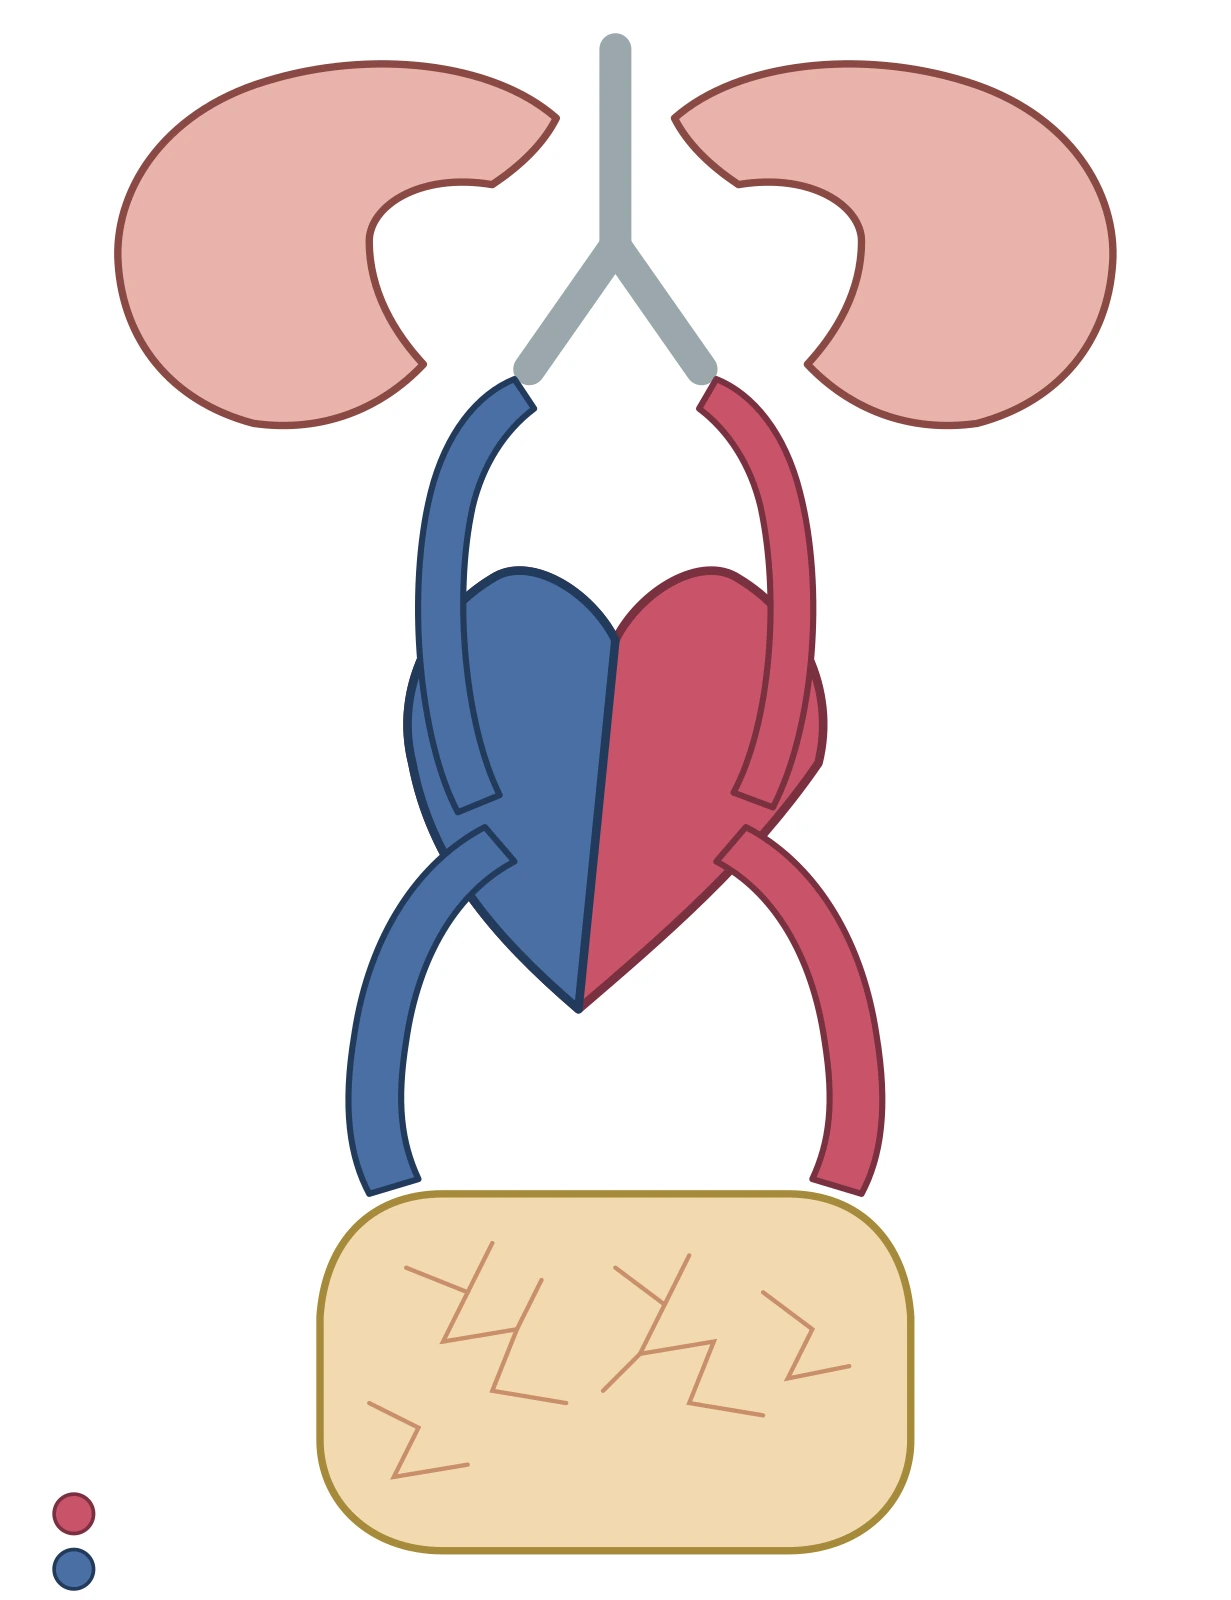
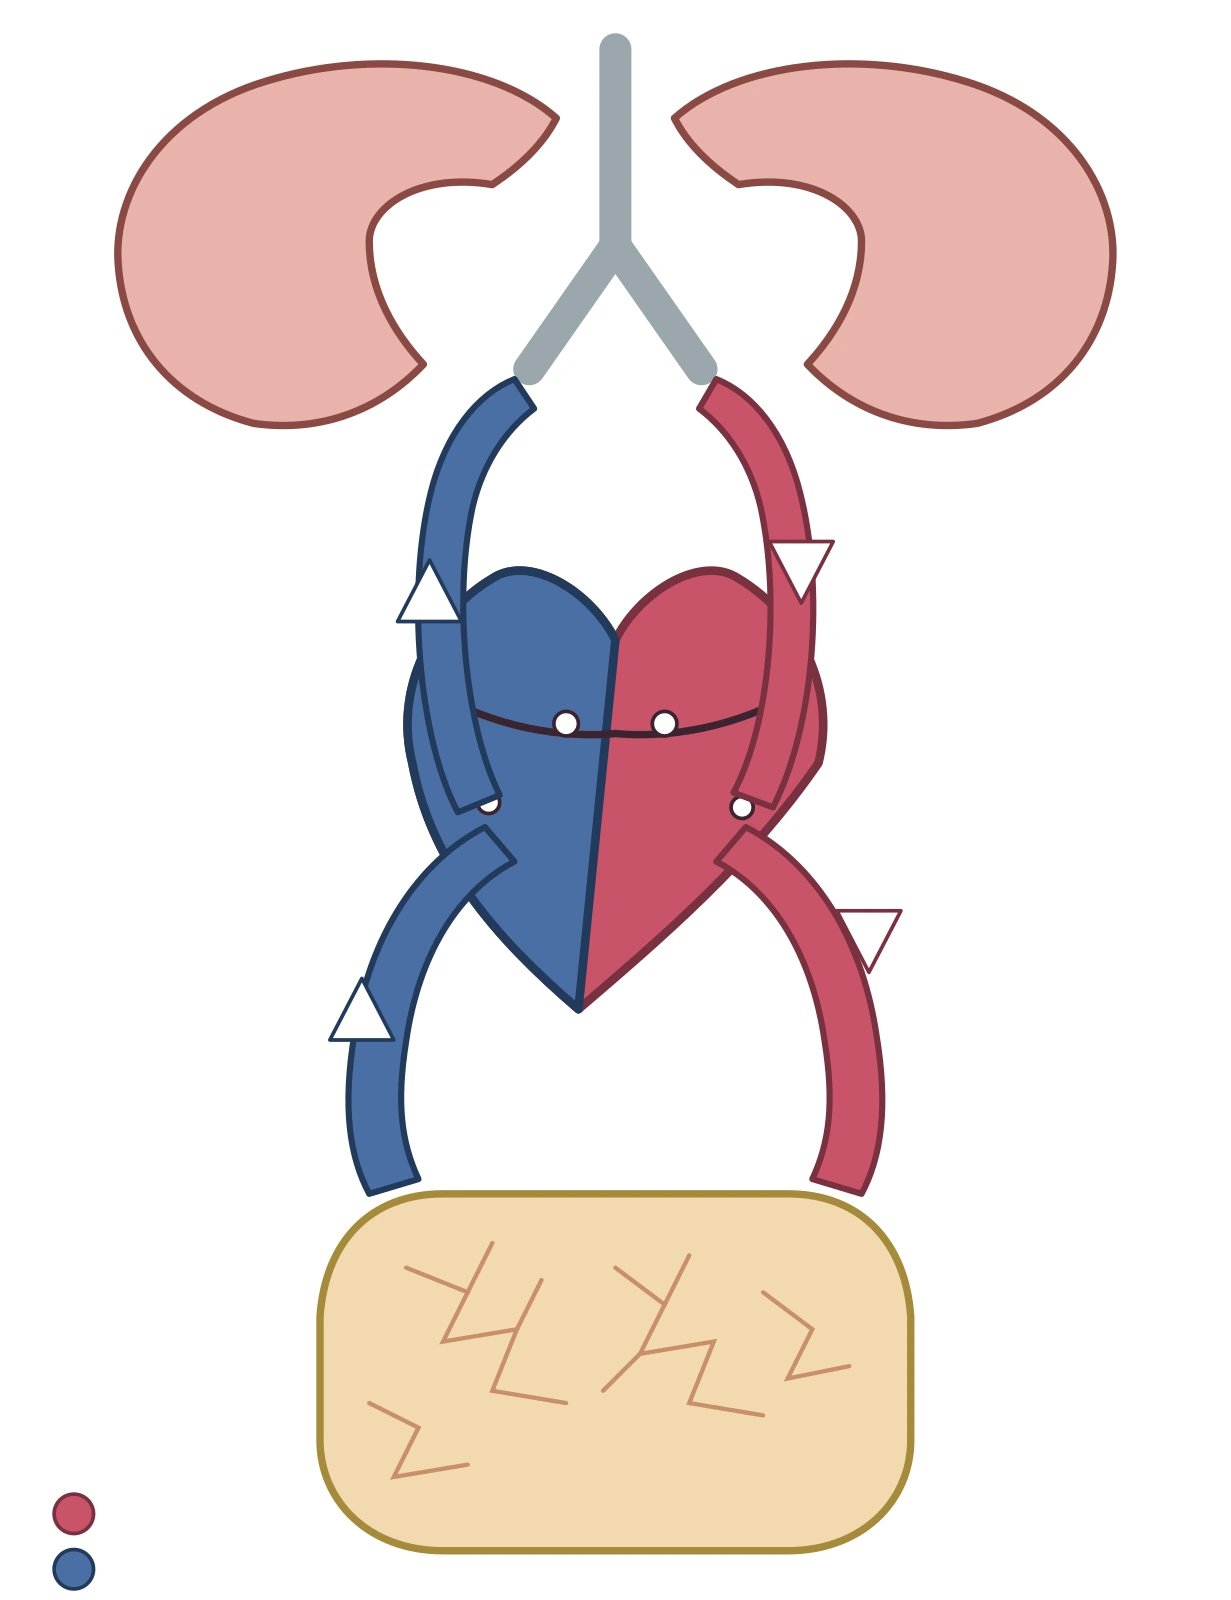
feat: improve educational quality of two weak image assets (vessel comparison, circulation circuit)
Image-quality improvement pass (not an image_mcq-count expansion): re-reviewed
all 28 existing assets against a single bar -- "can a first-year nursing
student grasp the basic structure and relationships from the picture alone?"
-- and produced an Accept/Replace now/Later classification for all of them
(docs/v2.0.1_image_quality_classification.md): 19 Accept, 7 Later (deferred,
not broken), 2 Replace now. Both Replace-now assets are implemented here.

Note: the user's request cited "Q143" for the circulation asset, but Q143 is
an unrelated text_mcq (Purkinje fibers); the actual QIDs using
circulation_circuit.webp are Q147/Q148. Proceeded on the explicit asset name
given and flagging the discrepancy here rather than blocking on it.

q021_vessel_cross_sections.webp (Q020/Q021/Q067 -- vein/capillary/artery):
replaced the old three-concentric-circle abstraction (same color filled in
three ring sizes, no actual wall structure visible) with a real three-panel
comparison: Servier Medical Art's "Layers of artery" and "Layers of vein"
cutaway illustrations (CC BY 4.0, via AnatomyTOOL.org's no-labels
redistribution) placed side by side, plus a new capillary panel built from
scratch (gradient-shaded thin single-layer wall with elongated endothelial-
cell nuclei, narrow lumen) since no matching-style open capillary cutaway
exists -- this is an honest simplification (a capillary wall really is just
endothelium + basal lamina, unlike the old image's misleading abstraction of
[…]

diff --git a/docs/v2.0.1_image_quality_classification.md b/docs/v2.0.1_image_quality_classification.md
@@ -1,0 +1,47 @@
+# v2.0.1 画像問題 教育的品質改善フェーズ：全28 asset の再分類
+
+「画像問題数を増やすことではなく、既存画像assetの教育的品質を改善する」という今回のフェーズの目的に沿って、既存の全28 unique assetを再レビューし、**Accept（現状で教育的に妥当）／Replace now（今回差し替え）／Later（改善余地はあるが致命的ではなく、次フェーズ以降の課題）**の3分類を行った結果。
+
+判断基準：**「図を見ただけで、その構造の基本的な形・位置関係・（複数構造の比較であれば）違いが、看護1年生の目線で理解できるか」**。単なる見た目の綺麗さではなく、この基準を満たさない、または致命的に誤解を招く抽象化になっている場合のみ Replace now とした。
+
+---
+
+## Replace now（今回差し替え・2 asset）
+
+| asset | 差し替え理由 | 詳細 |
+|---|---|---|
+| `q021_vessel_cross_sections.webp` | 動脈・静脈・毛細血管を3つの同心円（塗り分けただけの図形）で表現しており、「壁の厚さ」「弾性線維・平滑筋の有無」という設問の核心が図から一切読み取れなかった。看護1年生が見ても「色の違う丸が3つ」としか認識できない状態。 | [docs/v2.0.1_asset_source_log.md](v2.0.1_asset_source_log.md)の「画像の教育的品質改善フェーズ」節を参照 |
+| `circulation_circuit.webp` | 心臓が単に色分けされた一塊で心房・心室の区別がなく、4本の血管に血流方向の矢印が一切なかった。Q147/Q148はいずれも「経路をたどる」問題であるにもかかわらず、図から経路の向きを追う手がかりが無かった。 | 同上 |
+
+---
+
+## Accept（19 asset）
+
+前フェーズまでに実写・準実写ベースのオープンライセンス素材（主にServier Medical Art／Patrick J. Lynch, C. Carl Jaffe MD、いずれもAnatomyTOOL.org経由のCC BY 4.0 / CC BY-SA 4.0）へ差し替え済み、または元々十分な情報量を持つ実画像ベースのasset。いずれも「見ただけで基本構造が分かる」基準を満たしていると判断した。
+
+`q002_hierarchy.webp` ／ `q004_epithelium.webp` ／ `q011_germ_layers.webp` ／ `q017_heart_chambers.webp` ／ `q068_ecg_waveform.webp` ／ `heart_exterior_anterior.webp` ／ `heart_exterior_posterior.webp` ／ `q025_conduction_system.webp` ／ `q032_larynx.webp` ／ `q032_vocal_folds.webp` ／ `q037_alveolar_gas_exchange.webp` ／ `q041_alveolar_sac.webp` ／ `q045_renal_hilum.webp` ／ `q048_nephron.webp` ／ `q050_urinary_system.webp` ／ `heart_valve_plane.webp` ／ `q073_coronary_arteries.webp` ／ `q091_kidney_cross_section.webp` ／ `heart_valves_schematic.webp`
+
+---
+
+## Later（7 asset）
+
+いずれも「意味不明」「誤解を招く」水準ではなく、構造の位置関係は理解できるレベルにあるが、実写素材への置き換えでさらに質を上げる余地がある、または今回のオープンライセンス探索では直接一致する適切な代替が見つからなかったもの。次フェーズ以降の課題として明記し、今回は見送った（致命的な破綻がないことを確認した上での意図的な先送り）。
+
+| asset | 現状 | 見送り理由 |
+|---|---|---|
+| `q008_body_planes.webp` | 人体シルエット＋3断面（矢状面・冠状面・水平面）の模式図 | 面の位置関係自体は模式図で十分伝わる。断面の「向き」がテーマであり、人体シルエットの写実性は本質ではない |
+| `q016_apex.webp` | 心尖の位置を示す模式図 | 位置関係（心尖の向き）は明瞭。実写化しても教育的な追加情報は少ない |
+| `q035_right_middle_lobe.webp` | 肺葉の模式図 | 肺葉の区分・位置関係は模式図で明瞭。Servier素材に直接一致する候補が見つからなかった |
+| `q040_airway_branching.webp` | 気道分岐の模式図 | 分岐パターンという topology が主題で、模式図表現がむしろ適切 |
+| `anatomical_position.webp` | 解剖学的正位の全身模式図 | 正位の定義（直立・正面視・手掌前方）を伝えるには十分な情報量 |
+| `direction_terms.webp` | 方向用語（上下・前後・内外側等）の模式図 | 抽象的な方向概念の説明であり、模式図表現が本質的に適している |
+| `pleura_cross_section.webp` | 胸膜腔の断面模式図 | 胸膜の層構造という topology は模式図で明瞭に伝わる |
+
+---
+
+## 集計
+
+- Replace now: 2（q021_vessel_cross_sections, circulation_circuit）
+- Accept: 19
+- Later: 7
+- 合計: 28（既存asset数と一致、追加・削除なし）
